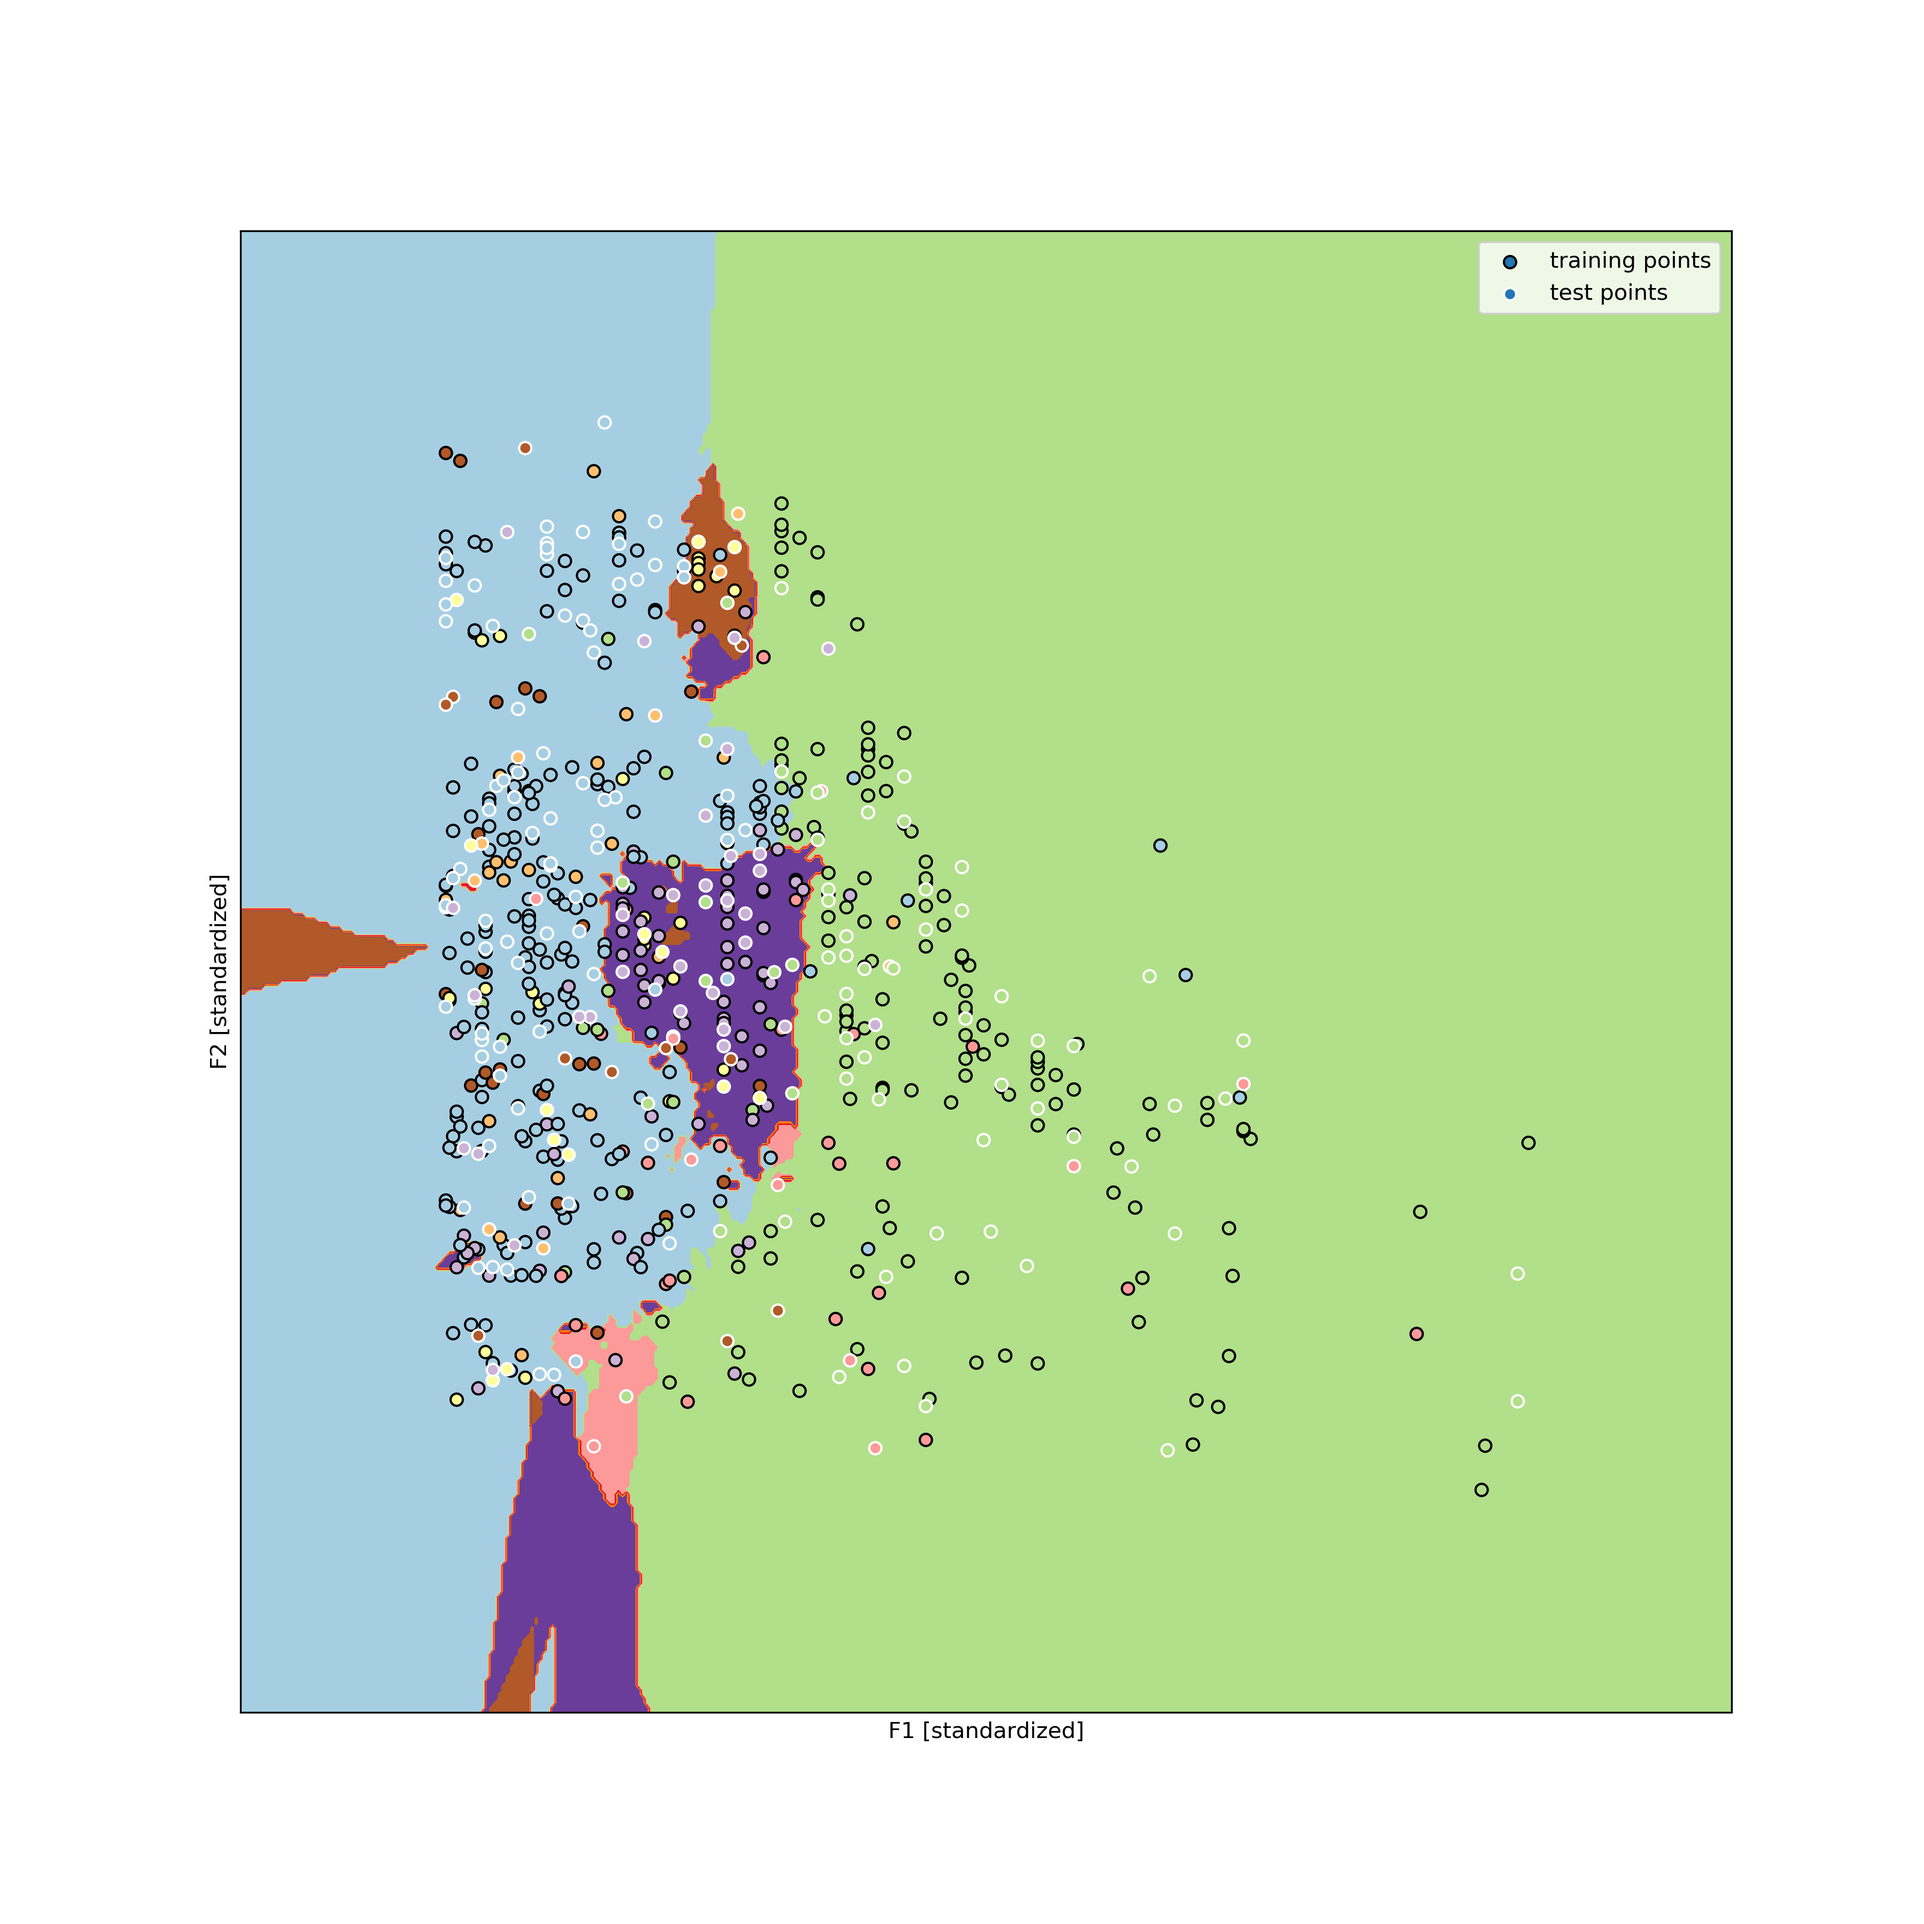
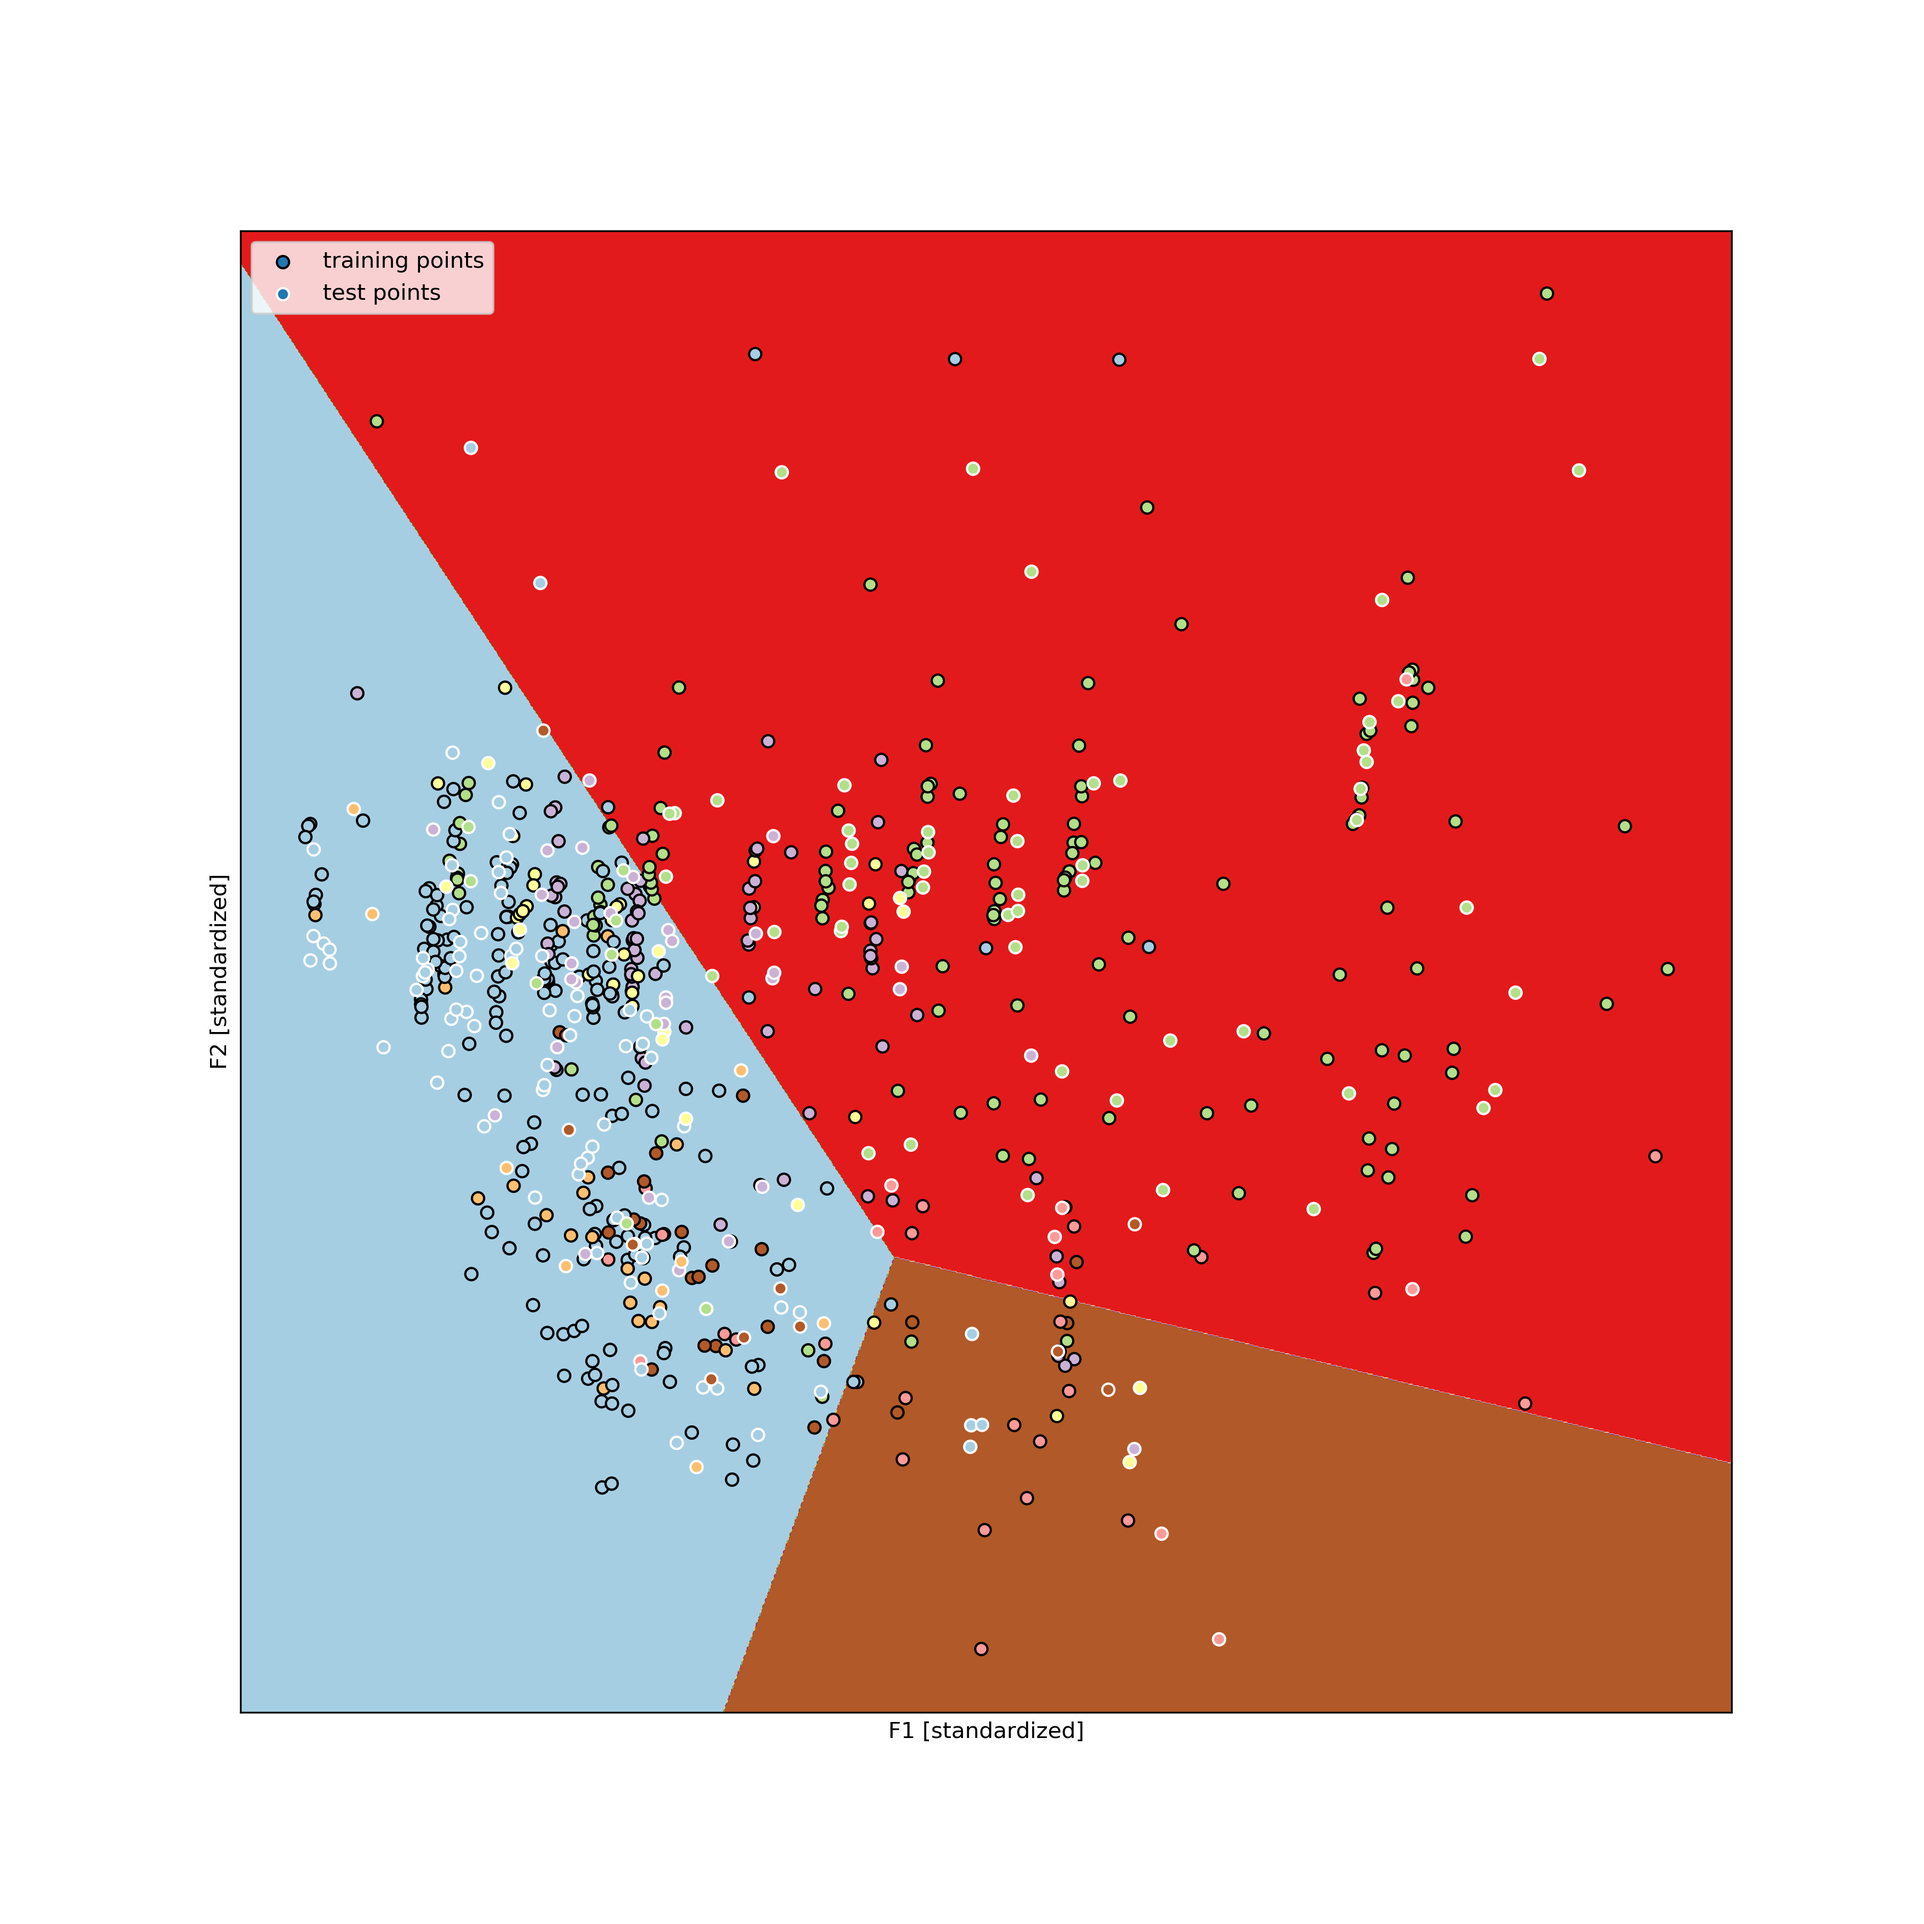
added pca

diff --git a/main.py b/main.py
@@ -10,12 +10,12 @@ DF = DF.loc[:, ~DF.columns.str.contains('^Unnamed')]
 print(DF.tail(20))
 
 #Plot Heatmap for some features
-corr = DF.iloc[:, [5, 25, 30, 35]].corr()
-plt.figure(figsize=(10, 10))
-heatmap.corrplot(corr)
+#corr = DF.iloc[:, [5, 25, 30, 35]].corr()
+#plt.figure(figsize=(10, 10))
+#heatmap.corrplot(corr)
 
 #Define features and target
-X = DF.iloc[:, [5, 25]]
+X = DF.iloc[:, list(range(5, 55))]
 y = DF.iloc[:, 3]
 
 #30/70 Test/Train stratified split
@@ -29,15 +29,23 @@ sc.fit(X_train)
 X_train_std = sc.transform(X_train)
 X_test_std = sc.transform(X_test)
 
-#Logistic Regression Model
-from sklearn.linear_model import LogisticRegression
-from sklearn.neighbors import KNeighborsClassifier
-lr = KNeighborsClassifier(n_neighbors=10)
-lr.fit(X_train_std, y_train)
-y_pred = lr.predict(X_test_std)
 
-from sklearn.metrics import classification_report
-print(classification_report(y_test, y_pred))
+from sklearn.decomposition import PCA
+pca = PCA()
+X_train_pca = pca.fit_transform(X_train_std)
+print(pca.explained_variance_ratio_)
+
+pca = PCA(n_components=2)
+X_train_pca = pca.fit_transform(X_train_std)
+X_test_pca = pca.fit_transform(X_test_std)
+
+plt.scatter(X_train_pca[:, 0], X_train_pca[:, 1], c=y_train, cmap=plt.cm.Paired)
+plt.xlabel('PC1')
+plt.ylabel('PC2')
+
+from sklearn.linear_model import LogisticRegression
+lr = LogisticRegression()
+lr = lr.fit(X_train_pca, y_train)
 
 ############Visualize Model Performance############
 
@@ -49,8 +57,8 @@ def make_meshgrid(x, y, h=.02):
     return xx, yy
 
 # Set-up grid for plotting.
-X0, X1 = X_train_std[:, 0], X_train_std[:, 1]
-X2, X3 = X_test_std[:, 0], X_test_std[:, 1]
+X0, X1 = X_train_pca[:, 0], X_train_pca[:, 1]
+X2, X3 = X_test_pca[:, 0], X_test_pca[:, 1]
 xx, yy = make_meshgrid(X0, X1)
 
 fig, ax = plt.subplots(figsize=(12,12))
